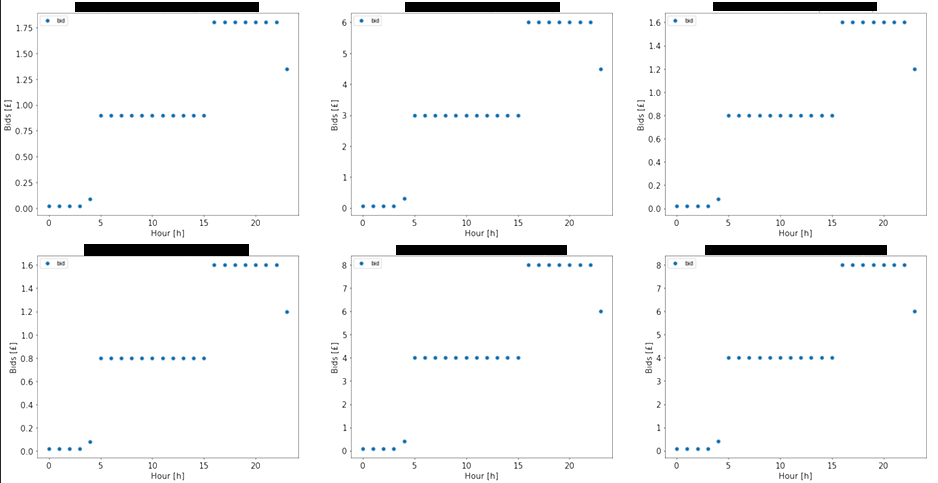
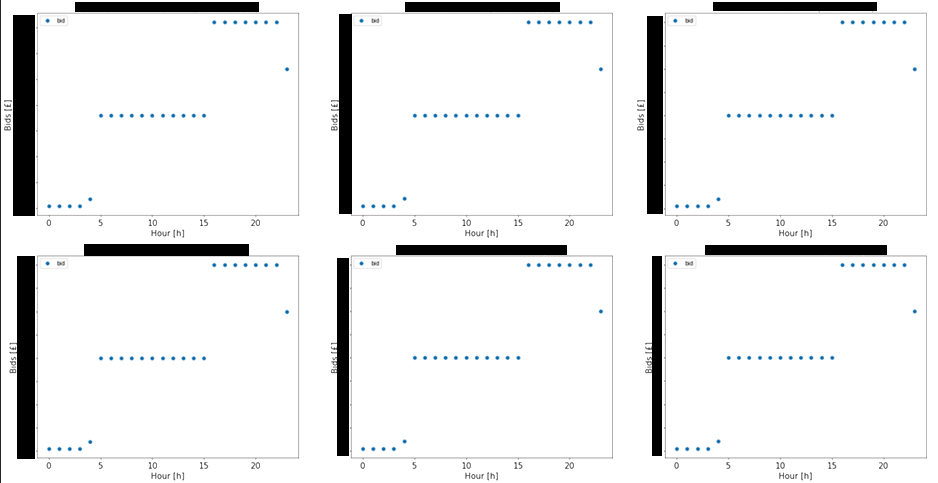
updated comment on pattern picture

diff --git a/content/posts/operational-red-flags.md b/content/posts/operational-red-flags.md
@@ -26,7 +26,7 @@ Repetitive, identical reports may indicate the opportunity to increase the granu
 
 ![Repeating bidding strategy](/images/repeating-pattern-operations.png)
 
-> This is just a small sample of reporting from that day - there were many other identical graphs present which made this pattern even more obvious.
+> This is just a small sample of reporting from that day - there were many other identical graphs present which made this pattern even more obvious.  Additionally the absolute values of the bids were different but the same pattern was present.
 
 What becomes pretty clear is that all of the keywords are following a simliar pattern.  This strongly implies that some sort of heuristical approach is being applied at a higher level.  It is very unlikely that this higher-level bidding strategy is maximally optimal for every keyword, meaning that there is opportunity to improve KPIs by applying a more granular (keyword-level) bidding strategy.  Managing a bidding strategy at a keyword level across thousands of keywords would not be feasible via human operators - requiring the application of some sort of automated, algorithmic approach (i.e. Data Science!).
 
